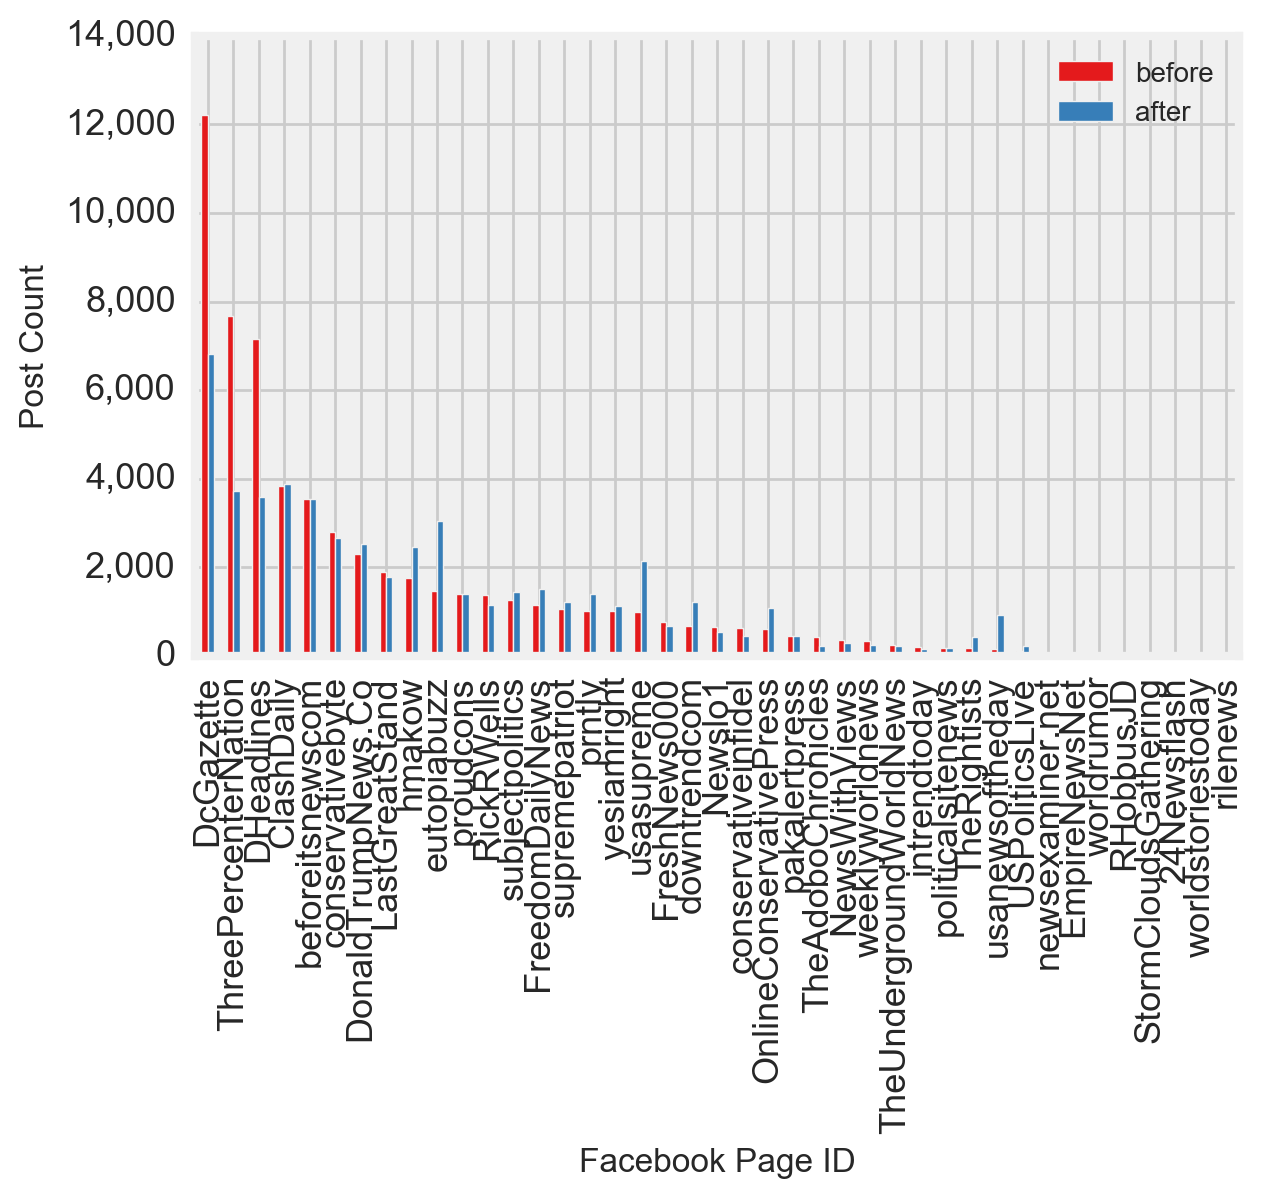
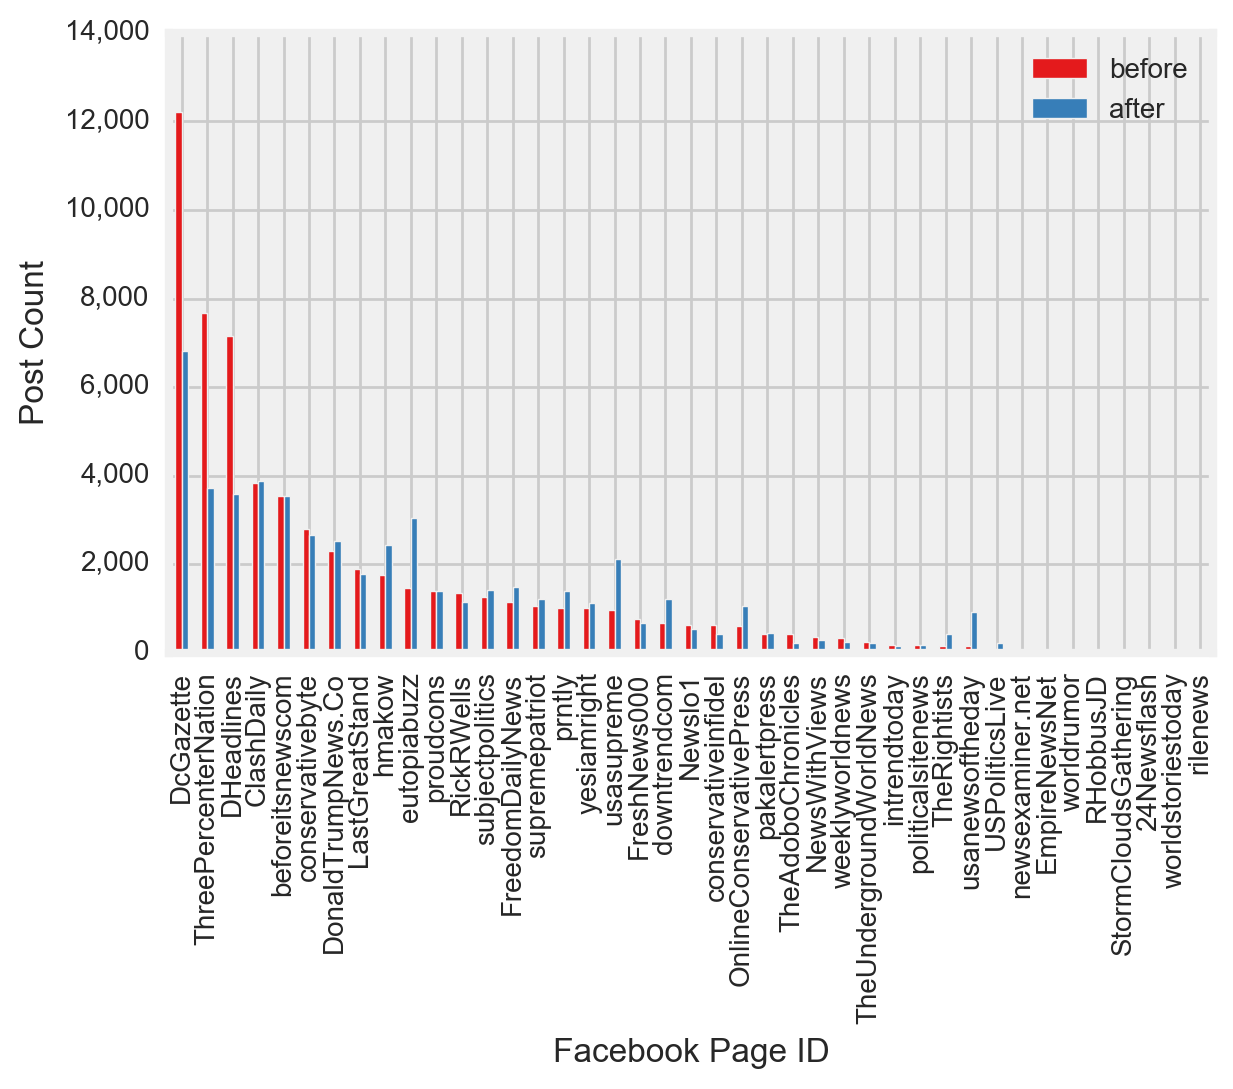
updates96

Changed region(s): [[0.0308, 0.0, 0.9862, 0.9366], [0.4315, 0.9366, 0.678, 0.9991], [0.0, 0.2185, 0.0308, 0.4059]]

diff --git a/_pages/news_analysis.md b/_pages/news_analysis.md
@@ -120,12 +120,12 @@ Next the frequency of posts and level of engagement are investigated with respec
 ##### Figure 5
 
 <kbd>
-<img src ="https://lukearmbruster.github.io/_pages/Figure_6.png" style="width: 500px">
+<img src ="https://lukearmbruster.github.io/_pages/Figure_6.png" style="width: 700px">
 </kbd>
 ##### Figure 6
 
 <kbd>
-<img src ="https://lukearmbruster.github.io/_pages/Figure_7.png" style="width: 500px">
+<img src ="https://lukearmbruster.github.io/_pages/Figure_7.png" style="width: 700px">
 </kbd>
 ##### Figure 7
 
